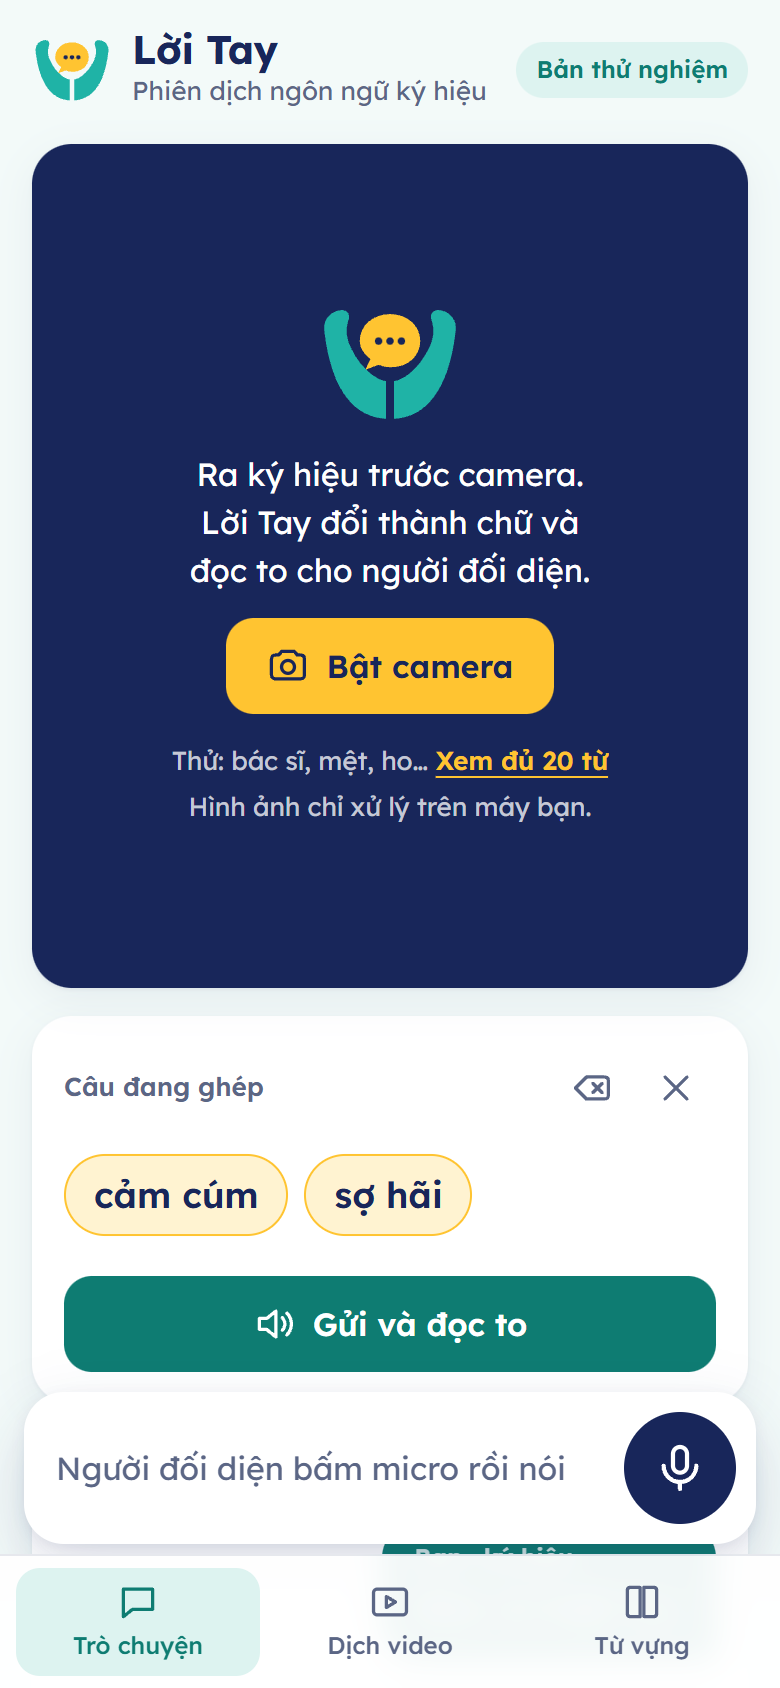
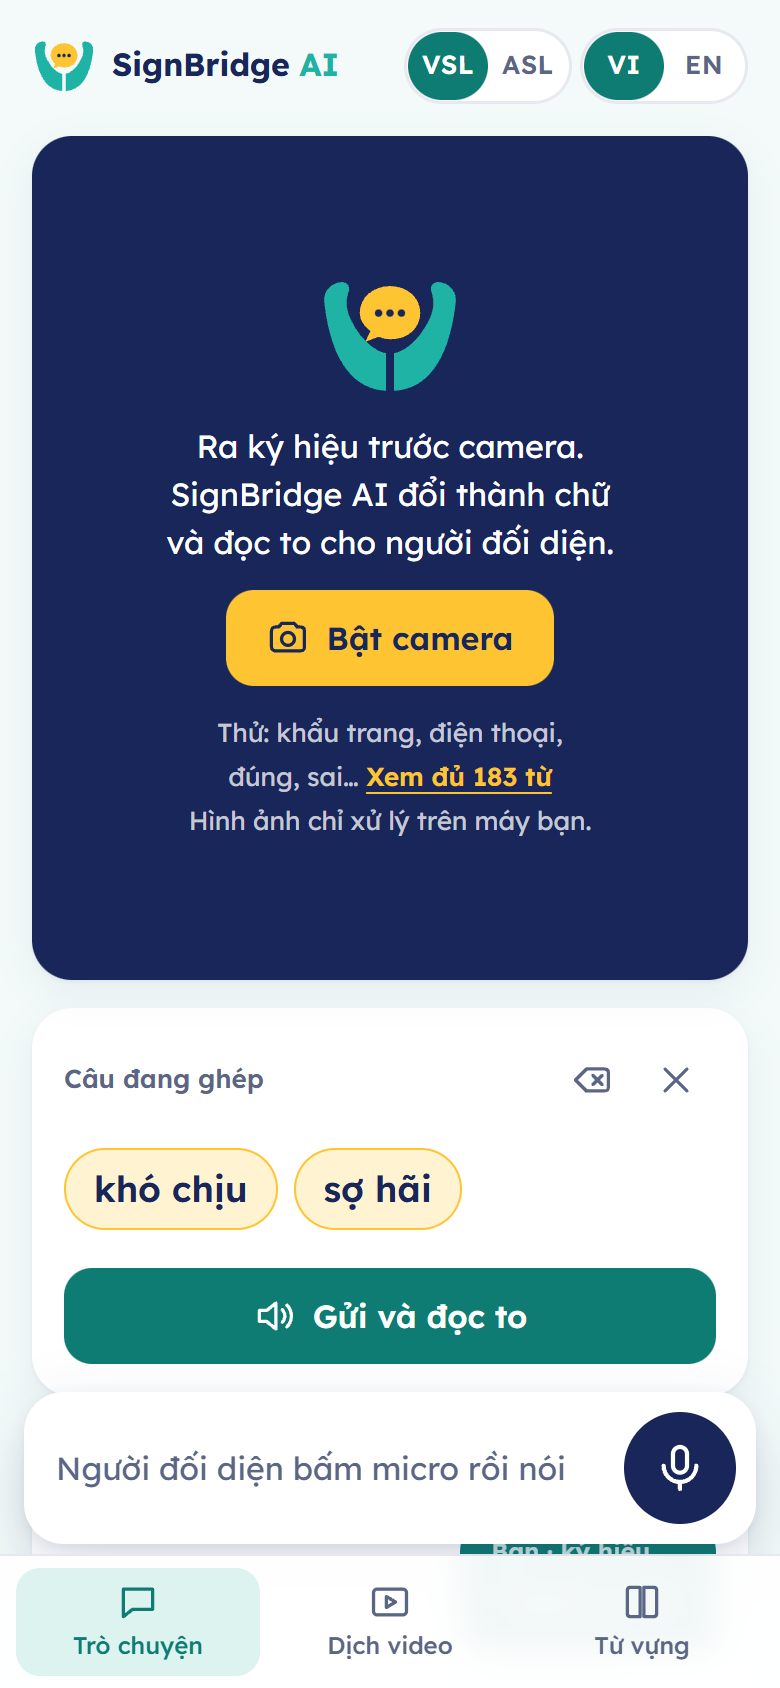
Đổi tên thành SignBridge AI, đưa web lên Cloudflare Pages
- Tên mới ở tiêu đề, đầu trang ("SignBridge" xanh đậm + "AI" xanh ngọc) và mọi câu chữ Việt/Anh
- Đầu trang vừa một hàng trên điện thoại hẹp (360 px)
- Nhóm học sinh lớp 11A4 và 11A8
- Web chính: https://signbridge-vn.pages.dev (npm run deploy)
- Chụp lại ảnh minh hoạ với tên mới
- Test: không còn sót tên cũ

diff --git a/web/src/i18n.js b/web/src/i18n.js
@@ -2,8 +2,8 @@
 // (test/i18n.test.js kiểm tra hai bên đủ như nhau). {tên} được thay bằng giá trị lúc hiển thị.
 
 const vi = {
-  'meta.title': 'Lời Tay · Phiên dịch ngôn ngữ ký hiệu',
-  'brand.home': 'Lời Tay, về trang trò chuyện',
+  'meta.title': 'SignBridge AI · Phiên dịch ngôn ngữ ký hiệu',
+  'brand.home': 'SignBridge AI, về trang trò chuyện',
   'brand.sub': 'Phiên dịch ngôn ngữ ký hiệu',
   'switch.sign': 'Ngôn ngữ ký hiệu',
   'switch.ui': 'Ngôn ngữ giao diện',
@@ -14,7 +14,7 @@ const vi = {
   'lang.vsl': 'ngôn ngữ ký hiệu Việt Nam',
   'lang.asl': 'ngôn ngữ ký hiệu Mỹ (ASL)',
 
-  'cam.msg': 'Ra ký hiệu trước camera. Lời Tay đổi thành chữ và đọc to cho người đối diện.',
+  'cam.msg': 'Ra ký hiệu trước camera. SignBridge AI đổi thành chữ và đọc to cho người đối diện.',
   'cam.start': 'Bật camera',
   'cam.try': 'Thử: {examples}… <a href="#vocab">Xem đủ {n} từ</a><br>Hình ảnh chỉ xử lý trên máy bạn.',
   'cam.hint': 'Đưa tay vào khung hình',
@@ -40,7 +40,7 @@ const vi = {
   'mic.unsupported': 'Trình duyệt này chưa nghe được giọng nói. Hãy mở bằng Chrome hoặc Edge.',
 
   'video.title': 'Dịch video',
-  'video.lead': 'Chọn video có người ra ký hiệu. Lời Tay xem từng khung hình và liệt kê các từ nhận được.',
+  'video.lead': 'Chọn video có người ra ký hiệu. SignBridge AI xem từng khung hình và liệt kê các từ nhận được.',
   'video.pick': 'Chọn video',
   'video.formats': 'MP4, MOV hoặc WEBM. Video chỉ xử lý trên máy bạn.',
   'video.loading': 'Đang tải AI nhận diện…',
@@ -50,20 +50,20 @@ const vi = {
   'video.found': 'Nhận được {n} ký hiệu:',
   'video.none': 'Không tìm thấy ký hiệu nào trong video này.',
 
-  'vocab.title': 'Lời Tay hiểu được gì?',
+  'vocab.title': 'SignBridge AI hiểu được gì?',
   'vocab.lead': 'Bản thử nghiệm nhận diện <b>{n}</b> ký hiệu {lang}. Ra từng ký hiệu rõ ràng, sau mỗi từ hạ tay xuống một chút. Cử động không phải ký hiệu sẽ được bỏ qua.',
   'vocab.search': 'Tìm từ, ví dụ: {example}',
   'vocab.searchLabel': 'Tìm từ',
   'vocab.found': 'Tìm thấy {n} từ',
-  'vocab.none': 'Chưa có từ “{q}”. Lời Tay đang học thêm.',
+  'vocab.none': 'Chưa có từ “{q}”. SignBridge AI đang học thêm.',
   'credit.vsl': 'Dữ liệu huấn luyện: <a href="https://zenodo.org/records/23610105" target="_blank" rel="noopener">VieSign-10K</a> của Cap Pham Dinh Thang (giấy phép CC BY 4.0).',
   'credit.asl': 'Dữ liệu huấn luyện: <a href="https://www.kaggle.com/competitions/asl-signs" target="_blank" rel="noopener">Google Isolated Sign Language Recognition</a> của Deaf Professional Arts Network và Georgia Tech (giấy phép CC BY 4.0).',
-  'credit.rest': 'Nhận diện điểm khớp: MediaPipe của Google (Apache 2.0).<br>Dự án khởi nghiệp của nhóm 11A4, Trường THPT Lê Quý Đôn · Giáo viên hướng dẫn: cô Lê Thị Thúy.',
+  'credit.rest': 'Nhận diện điểm khớp: MediaPipe của Google (Apache 2.0).<br>Dự án khởi nghiệp của nhóm học sinh lớp 11A4 và 11A8, Trường THPT Lê Quý Đôn · Giáo viên hướng dẫn: cô Lê Thị Thúy.',
 }
 
 const en = {
-  'meta.title': 'Lời Tay · Sign language interpreter',
-  'brand.home': 'Lời Tay, back to chat',
+  'meta.title': 'SignBridge AI · Sign language interpreter',
+  'brand.home': 'SignBridge AI, back to chat',
   'brand.sub': 'Sign language interpreter',
   'switch.sign': 'Sign language',
   'switch.ui': 'Interface language',
@@ -74,7 +74,7 @@ const en = {
   'lang.vsl': 'Vietnamese Sign Language',
   'lang.asl': 'American Sign Language (ASL)',
 
-  'cam.msg': 'Sign in front of the camera. Lời Tay turns your signs into text and reads them aloud.',
+  'cam.msg': 'Sign in front of the camera. SignBridge AI turns your signs into text and reads them aloud.',
   'cam.start': 'Turn on camera',
   'cam.try': 'Try: {examples}… <a href="#vocab">See all {n} signs</a><br>The video stays on your device.',
   'cam.hint': 'Bring your hands into view',
@@ -100,7 +100,7 @@ const en = {
   'mic.unsupported': 'This browser can’t listen to speech. Please open the app in Chrome or Edge.',
 
   'video.title': 'Translate a video',
-  'video.lead': 'Choose a video of someone signing. Lời Tay watches every frame and lists the signs it recognizes.',
+  'video.lead': 'Choose a video of someone signing. SignBridge AI watches every frame and lists the signs it recognizes.',
   'video.pick': 'Choose video',
   'video.formats': 'MP4, MOV or WEBM. The video stays on your device.',
   'video.loading': 'Loading the recognition AI…',
@@ -110,15 +110,15 @@ const en = {
   'video.found': 'Recognized {n} signs:',
   'video.none': 'No signs found in this video.',
 
-  'vocab.title': 'What does Lời Tay understand?',
+  'vocab.title': 'What does SignBridge AI understand?',
   'vocab.lead': 'This trial version recognizes <b>{n}</b> signs in {lang}. Sign one word at a time and lower your hands briefly after each one. Movements that are not signs are ignored.',
   'vocab.search': 'Search, e.g. {example}',
   'vocab.searchLabel': 'Search signs',
   'vocab.found': 'Found {n} signs',
-  'vocab.none': 'No sign for “{q}” yet. Lời Tay is still learning.',
+  'vocab.none': 'No sign for “{q}” yet. SignBridge AI is still learning.',
   'credit.vsl': 'Training data: <a href="https://zenodo.org/records/23610105" target="_blank" rel="noopener">VieSign-10K</a> by Cap Pham Dinh Thang (CC BY 4.0).',
   'credit.asl': 'Training data: <a href="https://www.kaggle.com/competitions/asl-signs" target="_blank" rel="noopener">Google Isolated Sign Language Recognition</a> by Deaf Professional Arts Network and Georgia Tech (CC BY 4.0).',
-  'credit.rest': 'Landmark detection: Google MediaPipe (Apache 2.0).<br>A student startup project by class 11A4, Le Quy Don High School · Advisor: Ms. Le Thi Thuy.',
+  'credit.rest': 'Landmark detection: Google MediaPipe (Apache 2.0).<br>A student startup project by classes 11A4 and 11A8, Le Quy Don High School · Advisor: Ms. Le Thi Thuy.',
 }
 
 export const STR = { vi, en }

diff --git a/web/index.html b/web/index.html
@@ -4,8 +4,8 @@
   <meta charset="utf-8">
   <meta name="viewport" content="width=device-width, initial-scale=1, viewport-fit=cover">
   <meta name="theme-color" content="#F3FAF9">
-  <meta name="description" content="Lời Tay: phiên dịch ngôn ngữ ký hiệu Việt Nam ngay trên điện thoại. Dự án khởi nghiệp nhóm 11A4, THPT Lê Quý Đôn.">
-  <title data-t="meta.title">Lời Tay · Phiên dịch ngôn ngữ ký hiệu</title>
+  <meta name="description" content="SignBridge AI: phiên dịch ngôn ngữ ký hiệu Việt Nam và ASL ngay trên điện thoại. Dự án khởi nghiệp của học sinh lớp 11A4 và 11A8, THPT Lê Quý Đôn.">
+  <title data-t="meta.title">SignBridge AI · Phiên dịch ngôn ngữ ký hiệu</title>
   <link rel="icon" href="/logo.svg" type="image/svg+xml">
   <link rel="preconnect" href="https://fonts.googleapis.com">
   <link rel="preconnect" href="https://fonts.gstatic.com" crossorigin>
@@ -27,9 +27,9 @@
   </svg>
 
   <header class="bar">
-    <a class="brand" href="#chat" aria-label="Lời Tay, về trang trò chuyện" data-t-attr="aria-label:brand.home">
+    <a class="brand" href="#chat" aria-label="SignBridge AI, về trang trò chuyện" data-t-attr="aria-label:brand.home">
       <img src="/logo.svg" alt="" width="40" height="34">
-      <span><b translate="no">Lời Tay</b><small data-t="brand.sub">Phiên dịch ngôn ngữ ký hiệu</small></span>
+      <span><b translate="no">SignBridge <span class="ai">AI</span></b><small data-t="brand.sub">Phiên dịch ngôn ngữ ký hiệu</small></span>
     </a>
     <div class="switches">
       <div class="seg" role="group" id="signSwitch" aria-label="Ngôn ngữ ký hiệu" data-t-attr="aria-label:switch.sign">
@@ -57,7 +57,7 @@
           <canvas id="overlay"></canvas>
           <div class="cam-off" id="camOff">
             <img src="/logo.svg" alt="" width="72" height="62">
-            <p id="camMsg" data-t="cam.msg">Ra ký hiệu trước camera. Lời Tay đổi thành chữ và đọc to cho người đối diện.</p>
+            <p id="camMsg" data-t="cam.msg">Ra ký hiệu trước camera. SignBridge AI đổi thành chữ và đọc to cho người đối diện.</p>
             <button class="btn primary" id="camStart"><svg><use href="#i-cam"/></svg><span data-t="cam.start">Bật camera</span></button>
             <small data-t-html="cam.try">Thử: khẩu trang, điện thoại, đúng, sai… <a href="#vocab">Xem đủ 183 từ</a><br>Hình ảnh chỉ xử lý trên máy bạn.</small>
           </div>
@@ -99,7 +99,7 @@
     <section class="view" id="video-view" aria-label="Dịch video" hidden data-t-attr="aria-label:tab.video">
       <div class="card pad narrow">
         <h1 data-t="video.title">Dịch video</h1>
-        <p class="lead" data-t="video.lead">Chọn video có người ra ký hiệu. Lời Tay xem từng khung hình và liệt kê các từ nhận được.</p>
+        <p class="lead" data-t="video.lead">Chọn video có người ra ký hiệu. SignBridge AI xem từng khung hình và liệt kê các từ nhận được.</p>
         <label class="drop" for="file">
           <svg><use href="#i-up"/></svg>
           <b data-t="video.pick">Chọn video</b>
@@ -115,7 +115,7 @@
     <!-- TRANG 3: TỪ VỰNG -->
     <section class="view" id="vocab" aria-label="Từ vựng" hidden data-t-attr="aria-label:tab.vocab">
       <div class="card pad narrow">
-        <h1 data-t="vocab.title">Lời Tay hiểu được gì?</h1>
+        <h1 data-t="vocab.title">SignBridge AI hiểu được gì?</h1>
         <p class="lead" data-t-html="vocab.lead">Bản thử nghiệm nhận diện <b>183</b> ký hiệu ngôn ngữ ký hiệu Việt Nam. Ra từng ký hiệu rõ ràng, sau mỗi từ hạ tay xuống một chút. Cử động không phải ký hiệu sẽ được bỏ qua.</p>
         <label class="search">
           <svg><use href="#i-search"/></svg>
@@ -125,7 +125,7 @@
         <div id="groups"></div>
         <p class="credit">
           <span id="creditData">Dữ liệu huấn luyện: <a href="https://zenodo.org/records/23610105" target="_blank" rel="noopener">VieSign-10K</a> của Cap Pham Dinh Thang (giấy phép CC BY 4.0).</span>
-          <span data-t-html="credit.rest">Nhận diện điểm khớp: MediaPipe của Google (Apache 2.0).<br>Dự án khởi nghiệp của nhóm 11A4, Trường THPT Lê Quý Đôn · Giáo viên hướng dẫn: cô Lê Thị Thúy.</span>
+          <span data-t-html="credit.rest">Nhận diện điểm khớp: MediaPipe của Google (Apache 2.0).<br>Dự án khởi nghiệp của nhóm học sinh lớp 11A4 và 11A8, Trường THPT Lê Quý Đôn · Giáo viên hướng dẫn: cô Lê Thị Thúy.</span>
         </p>
       </div>
     </section>

diff --git a/web/src/style.css b/web/src/style.css
@@ -1,4 +1,4 @@
-/* Lời Tay — giao diện. Màu lấy từ cờ cộng đồng người Điếc: xanh ngọc, vàng, xanh đậm. */
+/* SignBridge AI — giao diện. Màu lấy từ cờ cộng đồng người Điếc: xanh ngọc, vàng, xanh đậm. */
 :root {
   --teal: #1FB3A6;
   --teal-ink: #0E7C72;   /* xanh ngọc đậm: đủ tương phản cho chữ trắng */
@@ -33,9 +33,10 @@ html { caret-color: var(--teal-ink); scrollbar-color: rgba(24, 38, 90, .25) tran
 a { color: var(--teal-ink) }
 
 /* ---------- thanh trên ---------- */
-.bar { display: flex; align-items: center; justify-content: space-between; padding: 14px 16px 6px; max-width: 1180px; margin: 0 auto }
+.bar { display: flex; align-items: center; justify-content: space-between; gap: 8px; padding: 14px 16px 6px; max-width: 1180px; margin: 0 auto }
 .brand { display: flex; align-items: center; gap: 10px; text-decoration: none; color: inherit }
-.brand b { display: block; font-size: 20px; font-weight: 700; letter-spacing: -.01em; line-height: 1.1 }
+.brand b { display: block; font-size: 20px; font-weight: 700; letter-spacing: -.01em; line-height: 1.1; white-space: nowrap }
+.brand b .ai { color: var(--teal) }   /* "AI" xanh ngọc, giống logo chữ */
 .brand small { display: block; font-size: 13px; color: var(--muted) }
 /* nút chọn ngôn ngữ ký hiệu (VSL/ASL) và ngôn ngữ giao diện (VI/EN) */
 .switches { display: flex; gap: 6px; flex: none }
@@ -43,7 +44,16 @@ a { color: var(--teal-ink) }
 .seg button { min-width: 40px; height: 34px; padding: 0 10px; border-radius: 99px; font-size: 13px; font-weight: 600; letter-spacing: .02em; color: var(--muted) }
 .seg button:hover { color: var(--navy) }
 .seg button[aria-pressed="true"] { background: var(--teal-ink); color: #fff }
-@media (max-width: 479px) { .brand small { display: none } }
+/* Điện thoại: tên + 2 nhóm nút phải vừa một hàng, kể cả màn 360 px */
+@media (max-width: 479px) {
+  .brand small { display: none }
+  .brand { gap: 8px }
+  .brand img { width: 32px; height: auto }
+  .brand b { font-size: 16px }
+  .switches { gap: 4px }
+  .seg { padding: 2px }
+  .seg button { padding: 0 6px }
+}
 
 /* ---------- bố cục ---------- */
 main { max-width: 1180px; margin: 0 auto; padding: 10px 16px 20px }

diff --git a/web/test/i18n.test.js b/web/test/i18n.test.js
@@ -62,3 +62,12 @@ test('index_html_has_no_vietnamese_text_without_translation', () => {
     .map(m => m[3].trim())
   assert.deepEqual(missed, [])
 })
+
+test('app_is_called_signbridge_ai_everywhere', () => {
+  // Tên cũ "Lời Tay" không được sót ở chữ giao diện hay trong index.html.
+  const html = readFileSync(new URL('../index.html', import.meta.url), 'utf8')
+  for (const [where, text] of [['i18n', JSON.stringify(STR)], ['index.html', html]]) {
+    assert.ok(!text.includes('Lời Tay'), `${where} còn tên cũ`)
+    assert.ok(text.includes('SignBridge'), `${where} chưa có tên mới`)
+  }
+})

diff --git a/web/src/views/chat.js b/web/src/views/chat.js
@@ -91,7 +91,7 @@ export function initChat(getEngine) {
       $('live').hidden = false
       run(engine)
     } catch (err) {
-      console.error('[Lời Tay] không khởi động được:', err)
+      console.error('[SignBridge AI] không khởi động được:', err)
       btn.disabled = false
       msg.textContent = t(settings.ui, err?.name === 'NotAllowedError' ? 'cam.denied' : err?.name === 'NotFoundError' ? 'cam.none' : 'cam.fail')
     }

diff --git a/web/README.md b/web/README.md
@@ -1,6 +1,6 @@
-# Website Lời Tay
+# Website SignBridge AI
 
-Lời Tay giúp người Điếc và người nghe trò chuyện với nhau. AI chạy **ngay trong trình duyệt**: hình từ camera không bị gửi đi đâu, và không cần máy chủ.
+SignBridge AI giúp người Điếc và người nghe trò chuyện với nhau. AI chạy **ngay trong trình duyệt**: hình từ camera không bị gửi đi đâu, và không cần máy chủ.
 
 ## Chạy thử trên máy
 
@@ -16,6 +16,17 @@ Sau đó mở địa chỉ mà Vite in ra màn hình (thường là http://local
 - **Mẹo khi trình bày:** ra từng ký hiệu rõ ràng, sau mỗi từ **hạ tay xuống** một chút để app chốt từ.
 - **Đổi ngôn ngữ:** hai nút ở góc trên. **VSL | ASL** chọn ngôn ngữ ký hiệu (Việt Nam hoặc Mỹ), **VI | EN** chọn chữ trên giao diện. Lựa chọn được nhớ cho lần sau. Có thể mở thẳng bằng địa chỉ, ví dụ `?sign=asl&ui=en`.
 - **Thử khi không có camera:** đặt một video ký hiệu vào `public/demo/` (thư mục này không đưa lên git), rồi mở `http://localhost:5173/?demo=/demo/ten-video.mp4`. Website sẽ dùng video thay cho camera.
+
+## Đưa lên mạng
+
+Web chạy trên **Cloudflare Pages** tại https://signbridge-vn.pages.dev (dự án Pages `signbridge-vn`). Sau khi sửa code:
+
+```bash
+npm test
+npm run deploy
+```
+
+`npm run deploy` đóng gói web rồi tải thư mục `dist/` lên Cloudflare bằng `wrangler` (máy cần đăng nhập Cloudflare: `npx wrangler login`). Mỗi lần push lên `main`, GitHub Actions vẫn chạy kiểm thử và cập nhật bản phụ trên GitHub Pages.
 
 ## Kiểm thử
 

diff --git a/README.md b/README.md
@@ -1,8 +1,8 @@
-# Lời Tay: phiên dịch ngôn ngữ ký hiệu Việt Nam
+# SignBridge AI: phiên dịch ngôn ngữ ký hiệu Việt Nam
 
-**Dùng thử:** https://hirokasumi-bit.github.io/ai-ngon-ngu-ky-hieu/
+**Dùng thử:** https://signbridge-vn.pages.dev
 
-Lời Tay giúp người Điếc và người nghe trò chuyện với nhau:
+SignBridge AI giúp người Điếc và người nghe trò chuyện với nhau:
 
 - **Người Điếc** ra ký hiệu trước camera. AI nhận diện, chuyển thành chữ và đọc to cho người đối diện.
 - **Người nghe** bấm micro rồi nói. Câu nói hiện thành chữ để người Điếc đọc.
@@ -34,4 +34,4 @@ Ngôn ngữ chính là **ngôn ngữ ký hiệu Việt Nam (VSL)**. Nút ở gó
 
 ## Nhóm thực hiện
 
-Dự án khởi nghiệp của nhóm 11A4, Trường THPT Lê Quý Đôn, năm học 2026–2027. Giáo viên hướng dẫn: cô Lê Thị Thúy.
+Dự án khởi nghiệp của nhóm học sinh lớp 11A4 và 11A8, Trường THPT Lê Quý Đôn, năm học 2026–2027. Giáo viên hướng dẫn: cô Lê Thị Thúy.
